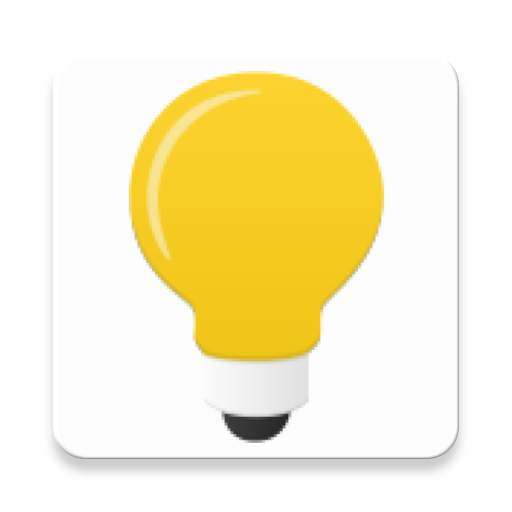
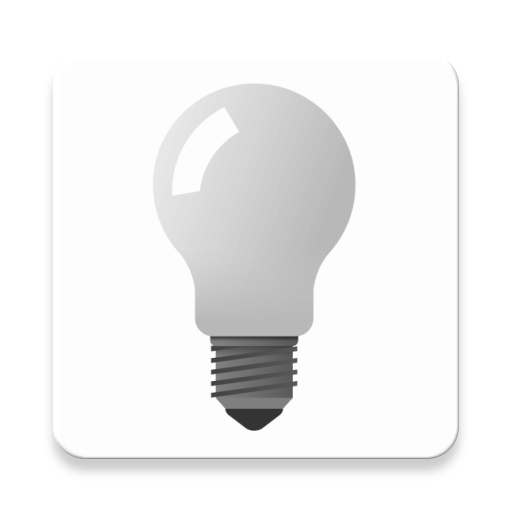
dodana testowe dane diagnostyczne na wypadek braku komunikacji

Changed region(s): [[0.25, 0.125, 0.75, 0.875]]

diff --git a/app/src/main/java/com/example/jacekmichalik/idomapp/FloorMapPackage/MySecurItemRecyclerViewAdapter.java b/app/src/main/java/com/example/jacekmichalik/idomapp/FloorMapPackage/MySecurItemRecyclerViewAdapter.java
@@ -13,11 +13,12 @@ import android.widget.Switch;
 import android.widget.TextView;
 
 import com.example.jacekmichalik.idomapp.IDOMTaskNotyfikator;
+import com.example.jacekmichalik.idomapp.JMTools.ProfStr;
 import com.example.jacekmichalik.idomapp.MainActivity;
 import com.example.jacekmichalik.idomapp.R;
 
 public class MySecurItemRecyclerViewAdapter extends RecyclerView.Adapter<MySecurItemRecyclerViewAdapter.ViewHolder>
-        implements IDOMTaskNotyfikator{
+        implements IDOMTaskNotyfikator {
 
     private final FloorItemsList mValues;
     private final SecurItemFragment.OnListFragmentInteractionListener mListener;
@@ -27,7 +28,7 @@ public class MySecurItemRecyclerViewAdapter extends RecyclerView.Adapter<MySecur
         mValues = items;
         mListener = listener;
         if (null == mValues)
-            Log.d("j23",this.toString()+" mValues = null");
+            Log.d("j23", this.toString() + " mValues = null");
     }
 
     @Override
@@ -40,16 +41,14 @@ public class MySecurItemRecyclerViewAdapter extends RecyclerView.Adapter<MySecur
     @Override
     public void onBindViewHolder(final ViewHolder holder, int position) {
 
-        if (null == mValues ){
-            Log.d("j23",this.toString() + "mValues = null");
+        if (null == mValues) {
+            Log.d("j23", this.toString() + "mValues = null");
             return;
         }
         holder.mItem = mValues.get(position);
         holder.mItemNameView.setText(holder.mItem.name);
-        holder.mItemDetailView.setText(holder.mItem.roomName + ", @" + holder.mItem.securID + ", "+holder.mItem.type);
+        holder.mItemDetailView.setText(holder.mItem.roomName + ", @" + holder.mItem.securID + ", " + holder.mItem.type);
         holder.position = position;
-
-        holder.mItemStateSwitch.setChecked(holder.mItem.state.equals("X"));
 
         if (holder.mItem.type.equals("heater")) {
 
@@ -59,8 +58,13 @@ public class MySecurItemRecyclerViewAdapter extends RecyclerView.Adapter<MySecur
 //            holder.mItemTypeImageView.setImageResource(R.drawable.temp_inside);
         } else {
 //            holder.mItemTypeImageView.setImageResource(R.drawable.ic_launcher_background);
-            holder.mItemTypeImageView.setImageResource(R.mipmap.ic_lamp_bulb_round);
+            if (holder.mItem.state.equals("X")) {
+                holder.mItemTypeImageView.setImageResource(R.mipmap.ic_lamp_bulb_on_front);
+            } else {
+                holder.mItemTypeImageView.setImageResource(R.mipmap.ic_lamp_bulb_off);
 //            holder.imgIcon.setImageResource(android.R.drawable.ic_media_ff);
+
+            }
         }
 
         final MySecurItemRecyclerViewAdapter tempNot = this;
@@ -74,13 +78,20 @@ public class MySecurItemRecyclerViewAdapter extends RecyclerView.Adapter<MySecur
                     // Notify the active callbacks interface (the activity, if the
                     // fragment is attached to one) that an item has been selected.
 
-                    MainActivity.IDOM.turnLight(v.getContext(),holder,tempNot);
+                    MainActivity.IDOM.turnLight(v.getContext(), holder, tempNot);
                     mListener.onListFragmentInteraction(holder.mItem);
+
+                    try{
+                        holder.mItemTypeImageView.setImageResource(R.mipmap.ic_lamp_bulb_on_front);
+                    }catch (Exception e){}
+//
+
                 }
             }
         };
 
         holder.mItemStateSwitch.setOnClickListener(onClickListener);
+        holder.mItemTypeImageView.setOnClickListener(onClickListener);
         holder.mView.setOnClickListener(onClickListener);
     }
 
@@ -94,12 +105,12 @@ public class MySecurItemRecyclerViewAdapter extends RecyclerView.Adapter<MySecur
 
     @Override
     public void handleUpdated(String updateTAG, Object addInfo) {
-        if ( null != addInfo )
-        if ( addInfo instanceof ViewHolder){
-            ViewHolder item = (ViewHolder)addInfo;
+        if (null != addInfo)
+            if (addInfo instanceof ViewHolder) {
+                ViewHolder item = (ViewHolder) addInfo;
 
-            notifyItemChanged(item.position);
-        }
+                notifyItemChanged(item.position);
+            }
 
     }
 
@@ -111,7 +122,7 @@ public class MySecurItemRecyclerViewAdapter extends RecyclerView.Adapter<MySecur
     public class ViewHolder extends RecyclerView.ViewHolder {
         public final View mView;
 
-        public int position=0;
+        public int position = 0;
         public final TextView mItemNameView;
         public final TextView mItemDetailView;
         public final ImageView mItemTypeImageView;

diff --git a/app/src/main/java/com/example/jacekmichalik/idomapp/IDOMDataManager.java b/app/src/main/java/com/example/jacekmichalik/idomapp/IDOMDataManager.java
@@ -38,6 +38,8 @@ import static com.example.jacekmichalik.idomapp.iDOmSettingsActivity.CNF_PHONE_N
 public class IDOMDataManager {
 
     // zmienne diagnostyczne ######
+
+    static boolean diag_always_on = true;
     static boolean diag_on_error_add_sample_macros = true;
     static boolean diag_on_error_add_sample_floors = true;
     static boolean diag_on_error_add_sample_stats = true;
@@ -210,6 +212,12 @@ public class IDOMDataManager {
             return;
         }
 
+        if ( diag_always_on ) {
+            diag_add_macros();
+            callNotyficator(idomTaskNotyfikator, IDOMTaskNotyfikator.GET_MACROS, null);
+            return;
+        }
+
         final RequestQueue queue = Volley.newRequestQueue(context);
 
         macrosList.add(new MacrosFragment.RowMacroItem(MACROID_SEND_STATUS_REQUEST, "pobierz status"));
@@ -259,6 +267,12 @@ public class IDOMDataManager {
 
         if (floorItemsList.getSize() > 0 && !forceRefresh) //  struktura była już wcześniej odczytana
         {
+            callNotyficator(idomTaskNotyfikator, IDOMTaskNotyfikator.GET_FLOOR, null);
+            return;
+        }
+
+        if ( diag_always_on ) {
+            diag_add_floors(floorName, forceRefresh);
             callNotyficator(idomTaskNotyfikator, IDOMTaskNotyfikator.GET_FLOOR, null);
             return;
         }
@@ -345,6 +359,13 @@ public class IDOMDataManager {
 
         if ( allLogs.length() > 0 && !forceRefresh){
             // już raz pobrano dane
+            callNotyficator(idomTaskNotyfikator, IDOMTaskNotyfikator.SYS_INFO, null);
+            sysChange();
+            return;
+        }
+
+        if ( diag_always_on ) {
+            diag_add_stats();
             callNotyficator(idomTaskNotyfikator, IDOMTaskNotyfikator.SYS_INFO, null);
             sysChange();
             return;

diff --git a/app/src/main/java/com/example/jacekmichalik/idomapp/AppCompatPreferenceActivity.java b/app/src/main/java/com/example/jacekmichalik/idomapp/AppCompatPreferenceActivity.java
@@ -71,8 +71,8 @@ public abstract class AppCompatPreferenceActivity extends PreferenceActivity {
     protected void onPostResume() {
         super.onPostResume();
         getDelegate().onPostResume();
-        getSharedPreferences()
-                .registerOnSharedPreferenceChangeListener(this);
+        /*getSharedPreferences()
+                .registerOnSharedPreferenceChangeListener(this);*/
     }
 
     @Override
